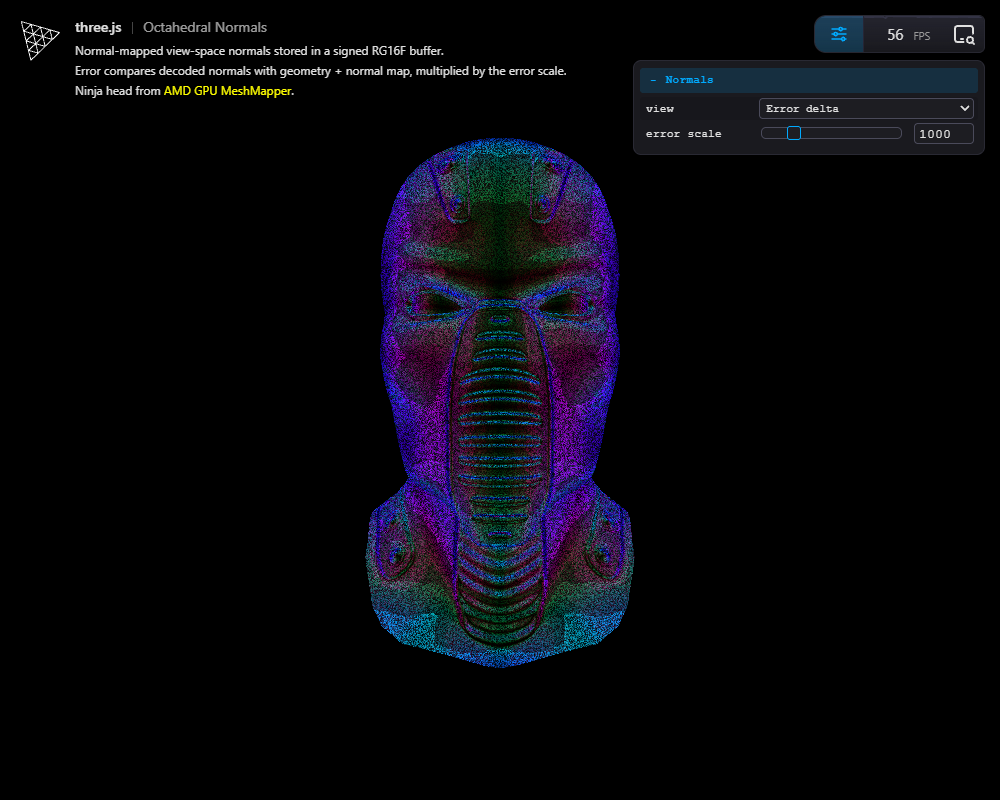
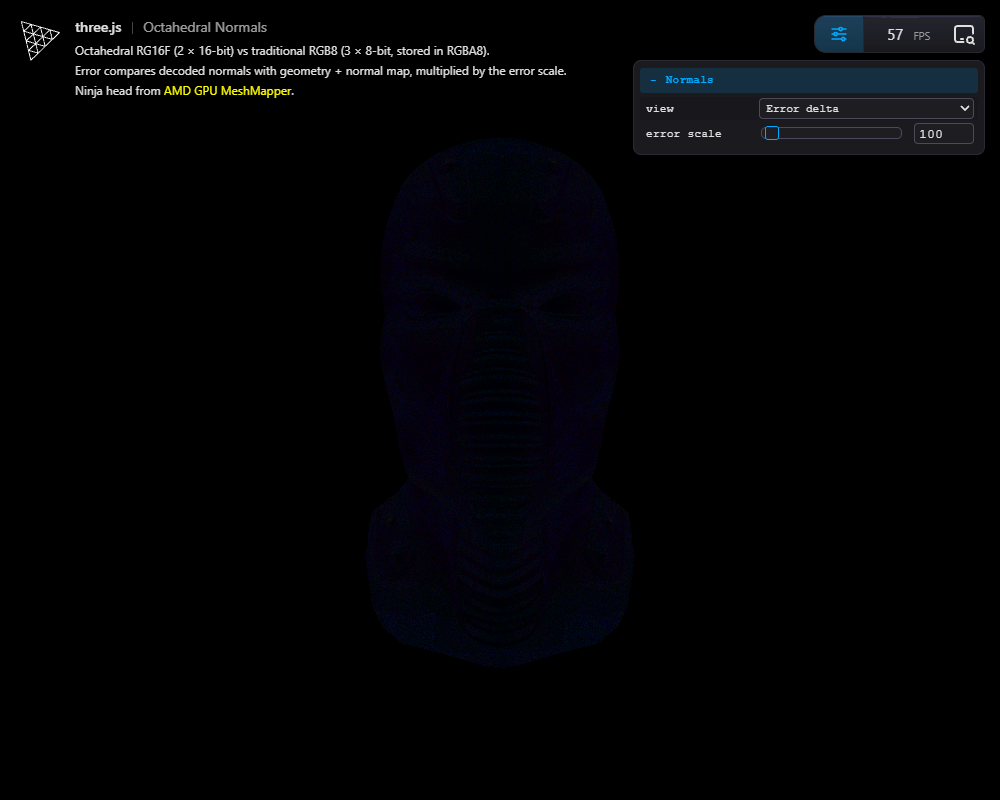
Publish RGB8 normal comparison views and screenshots

Changed region(s): [[0.341, 0.1562, 0.651, 0.8438], [0.093, 0.0312, 0.496, 0.0938], [0.775, 0.1562, 0.806, 0.1875]]

diff --git a/examples/webgpu_postprocessing_normals.html b/examples/webgpu_postprocessing_normals.html
@@ -14,7 +14,7 @@
 				<a href="https://threejs.org/" target="_blank" rel="noopener">three.js</a><span>Octahedral Normals</span>
 			</div>
 			<small>
-				Normal-mapped view-space normals stored in a signed RG16F buffer.<br />
+				Octahedral RG16F (2 × 16-bit) vs traditional RGB8 (3 × 8-bit, stored in RGBA8).<br />
 				Error compares decoded normals with geometry + normal map, multiplied by the error scale.<br />
 				Ninja head from <a href="https://web.archive.org/web/2024/https://gpuopen.com/archive/gamescgi/amd-gpu-meshmapper/" target="_blank" rel="noopener">AMD GPU MeshMapper</a>.
 			</small>
@@ -34,13 +34,13 @@
 		<script type="module">
 
 			import * as THREE from 'three/webgpu';
-			import { abs, mrt, normalView, octDecode, octEncode, output, pass, uniform, vec4 } from 'three/tsl';
+			import { abs, mrt, normalView, octDecode, octEncode, output, packNormalToRGB, pass, uniform, unpackRGBToNormal, vec4 } from 'three/tsl';
 			import { Inspector } from 'three/addons/inspector/Inspector.js';
 			import { OBJLoader } from 'three/addons/loaders/OBJLoader.js';
 			import { OrbitControls } from 'three/addons/controls/OrbitControls.js';
 
 			const params = { view: 'Beauty' };
-			const errorScale = uniform( 1000 );
+			const errorScale = uniform( 100 );
 			let camera, renderer, renderPipeline, controls;
 
 			init();
@@ -73,9 +73,14 @@
 				scenePass.setMRT( mrt( {
 					output,
 					normal: octEncode( normalView ),
-					// Reference includes the same geometry + normal map used by forward lighting.
-					reference: vec4( normalView, 1 )
-				} ).setClearColor( 'reference', 0x000000, 0 ) );
+					normalRGB: vec4( packNormalToRGB( normalView ), 1 )
+				} ) );
+
+				// Keep the full-precision reference in a separate pass so the comparison
+				// fits WebGPU's guaranteed 32 color attachment bytes per sample.
+				// It includes the same geometry + normal map used by forward lighting.
+				const referencePass = pass( scene, camera );
+				referencePass.setMRT( mrt( { output: vec4( normalView, 1 ) } ).setClearColor( 'output', 0x000000, 0 ) );
 
 				const normalTexture = scenePass.getTexture( 'normal' );
 				normalTexture.format = THREE.RGFormat;
@@ -83,17 +88,27 @@
 				normalTexture.minFilter = THREE.NearestFilter;
 				normalTexture.magFilter = THREE.NearestFilter;
 
-				const referenceTexture = scenePass.getTexture( 'reference' );
+				// WebGPU has no RGB8 render attachment; alpha is unused padding.
+				const normalRGBTexture = scenePass.getTexture( 'normalRGB' );
+				normalRGBTexture.format = THREE.RGBAFormat;
+				normalRGBTexture.type = THREE.UnsignedByteType;
+				normalRGBTexture.minFilter = THREE.NearestFilter;
+				normalRGBTexture.magFilter = THREE.NearestFilter;
+
+				const referenceTexture = referencePass.getTexture( 'output' );
 				referenceTexture.type = THREE.FloatType;
 				referenceTexture.minFilter = THREE.NearestFilter;
 				referenceTexture.magFilter = THREE.NearestFilter;
 
-				const reference = scenePass.getTextureNode( 'reference' );
+				const reference = referencePass.getTextureNode();
 				const reconstructed = octDecode( scenePass.getTextureNode( 'normal' ).rg );
+				const reconstructedRGB = unpackRGBToNormal( scenePass.getTextureNode( 'normalRGB' ).rgb );
 				const views = {
 					Beauty: scenePass.getTextureNode(),
 					Normals: vec4( reconstructed.mul( 0.5 ).add( 0.5 ).mul( reference.a ), 1 ),
-					'Error delta': vec4( abs( reconstructed.sub( reference.rgb ) ).mul( errorScale ).mul( reference.a ), 1 )
+					'Error delta': vec4( abs( reconstructed.sub( reference.rgb ) ).mul( errorScale ).mul( reference.a ), 1 ),
+					'RGB8 normals': vec4( reconstructedRGB.mul( 0.5 ).add( 0.5 ).mul( reference.a ), 1 ),
+					'RGB8 error delta': vec4( abs( reconstructedRGB.sub( reference.rgb ) ).mul( errorScale ).mul( reference.a ), 1 )
 				};
 
 				renderPipeline = new THREE.RenderPipeline( renderer );
